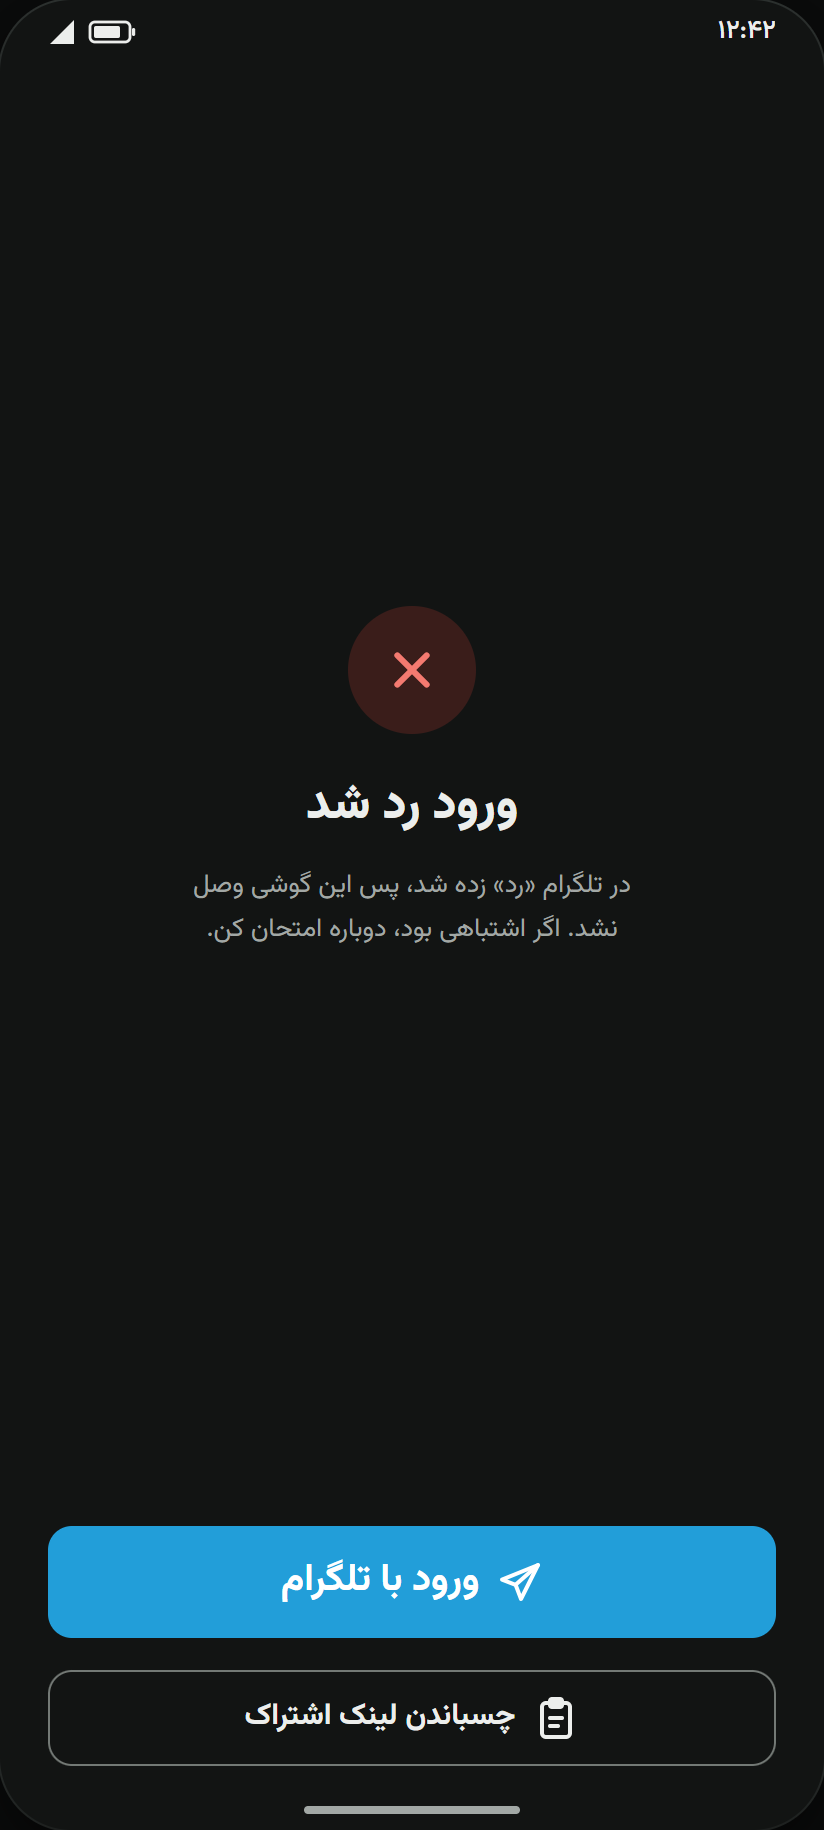
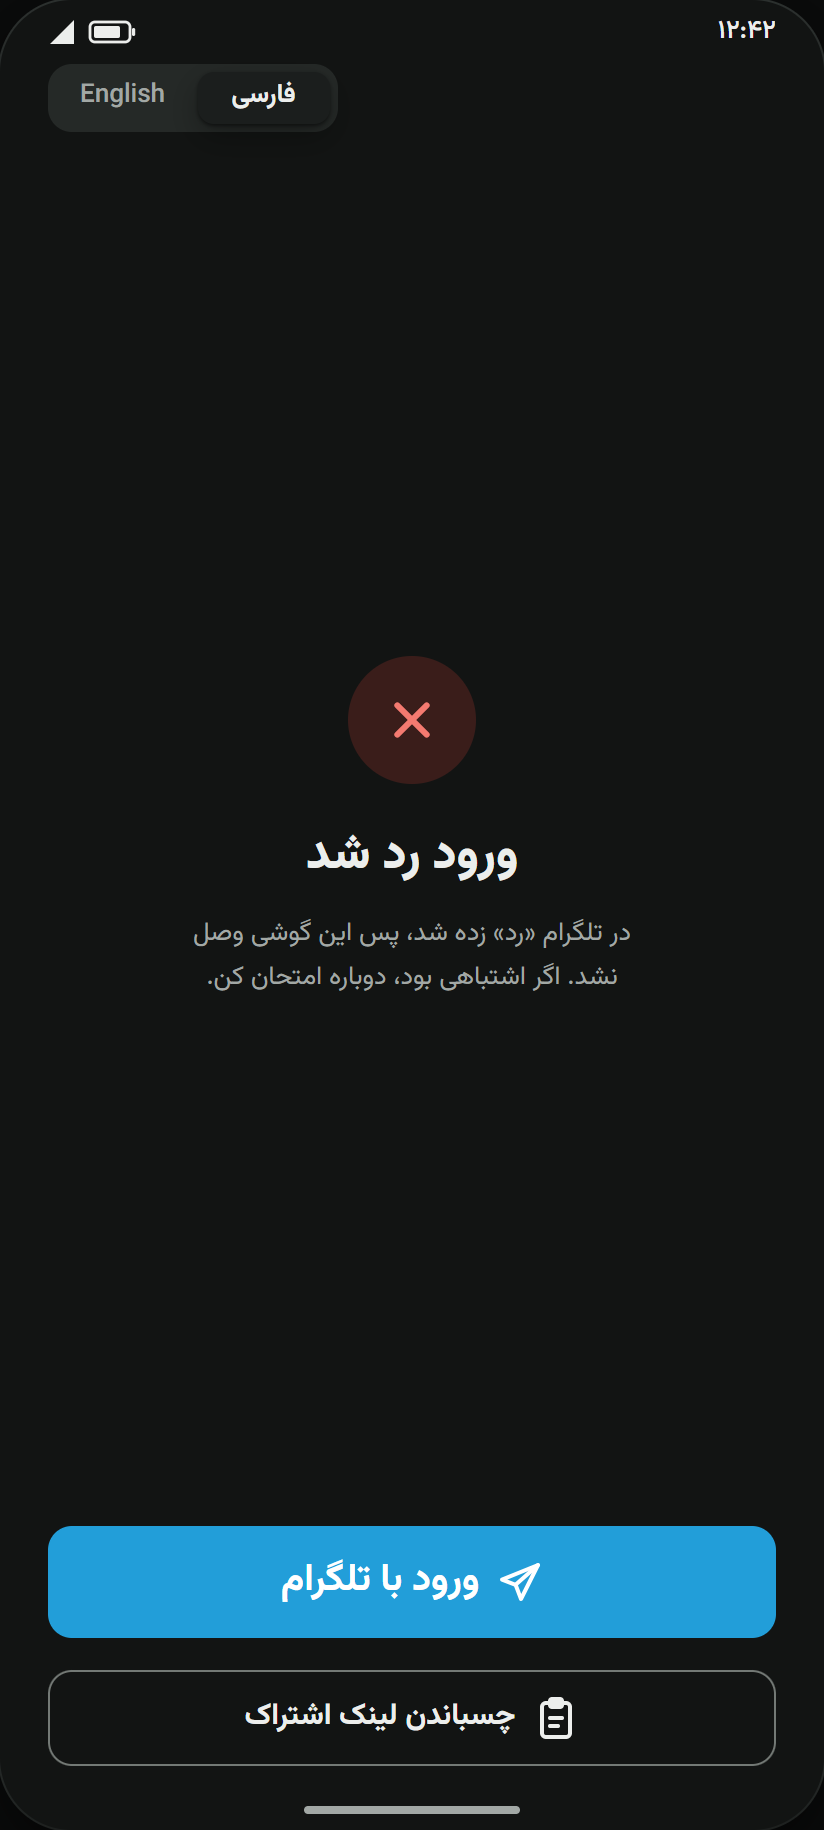
docs(design): say "this TV" on TV sign-out and tidy two login leftovers
The review of the last two design commits accepted them with three
small issues.

- The signed-in TV settings said sign-out removes the services from
  "this device" while the frame note promised "this TV". The TV now
  says "this TV", and the strings file has TV and touch versions of
  the sign-out help and body.
- The declined phone sign-in frame gets the language switch like the
  other sign-in screens.
- The code box's top margin never took effect, since every code box
  sits in a gap layout; it goes, with the two rules that zeroed it.
  No frame changed because of it.

Changed region(s): [[0.2427, 0.3115, 0.7585, 0.5607], [0.091, 0.0311, 0.2124, 0.0623], [0.2731, 0.0311, 0.3641, 0.0623]]

diff --git a/design/mockups/tv-states.html b/design/mockups/tv-states.html
@@ -458,7 +458,7 @@
               </div>
               <button class="row danger" type="button">
                 <svg class="icon"><use href="#i-logout"/></svg>
-                <span class="t"><span>خروج</span><small>سرویسها از این دستگاه برداشته میشوند؛ خودِ اشتراکهایت سر جایشاناند.</small></span>
+                <span class="t"><span>خروج</span><small>سرویسها از این تلویزیون برداشته میشوند؛ خودِ اشتراکهایت سر جایشاناند.</small></span>
               </button>
             </div>
           </section>
@@ -476,7 +476,7 @@
       </div>
     </div>
     <p class="note">دو ستون، تا همهچیز بیاسکرول در یک صفحه جا شود: ظاهر و زبان در ردیف بالا، حساب و اپ زیرشان. ریموت چپ و راست بین دو ستون میرود و بالا و پایین در هر ستون.</p>
-    <p class="note">«وارد شده با» فقط نوشته است و ریموت رویش نمیایستد. پایین از «خودکار» مستقیم به «خروج» میرود. پنجرهٔ تأیید خروج همان متن گوشی است.</p>
+    <p class="note">«وارد شده با» فقط نوشته است و ریموت رویش نمیایستد. پایین از «خودکار» مستقیم به «خروج» میرود. پنجرهٔ تأیید خروج همان پنجرهٔ گوشی است، با «این تلویزیون» بهجای «این دستگاه».</p>
     <p class="note"><b>پیشنهاد</b>«خروج» به سمت سرورِ ورود بستگی دارد که تازه شروع شده.</p>
   </figure>
 

diff --git a/design/mockups/mockup.css b/design/mockups/mockup.css
@@ -260,7 +260,7 @@ ul { list-style: none; }
 
 /* ۱۴. کد ورود */
 .code-box {
-  margin-top: var(--space-6); display: flex; flex-direction: column; align-items: center; gap: var(--space-2); text-align: center;
+  display: flex; flex-direction: column; align-items: center; gap: var(--space-2); text-align: center;
   padding: var(--space-4) var(--space-6); border-radius: var(--radius-lg); background: var(--color-surface); box-shadow: var(--shadow-card);
 }
 .code-label { font-size: var(--text-body); color: var(--color-text-muted); }
@@ -360,7 +360,6 @@ ul { list-style: none; }
 .login-note { text-align: center; font-size: var(--text-body-sm); color: var(--color-text-muted); }
 .alt-login { flex: 1; display: flex; flex-direction: column; align-items: center; gap: var(--space-4); padding: var(--space-2) var(--space-6) var(--space-10); text-align: center; }
 .alt-login .lead { line-height: var(--leading-body); }
-.alt-login .code-box { margin-top: 0; }
 
 /* خانهٔ گوشی */
 .home { flex: 1; display: flex; flex-direction: column; gap: var(--space-3); padding: 0 var(--safe-x); }
@@ -406,7 +405,6 @@ ul { list-style: none; }
 .login-copy { display: flex; flex-direction: column; align-items: flex-start; gap: var(--space-3); }
 .login-copy h1 { font-size: var(--text-headline); font-weight: var(--font-weight-black); line-height: var(--leading-tight); }
 .login-copy .lead { font-size: var(--text-title); line-height: var(--leading-tight); }
-.login-copy .code-box { margin-top: 0; }
 .qr-side { display: flex; flex-direction: column; align-items: center; gap: var(--space-3); }
 
 /* نتیجهٔ ورود تلویزیون */

diff --git a/design/mockups/phone-states.html b/design/mockups/phone-states.html
@@ -427,6 +427,10 @@
     <div class="phone" data-frame="phone-login-rejected">
       <div class="statusbar"><span>۱۲:۴۲</span><svg><use href="#sb"/></svg></div>
       <div class="login">
+        <div class="segmented sm" role="radiogroup" aria-label="زبان">
+          <button type="button" role="radio" aria-checked="true">فارسی</button>
+          <button type="button" role="radio" aria-checked="false" lang="en">English</button>
+        </div>
         <div class="login-brand">
           <span class="hero-icon danger"><svg class="icon"><use href="#i-x"/></svg></span>
           <span class="word">ورود رد شد</span>
